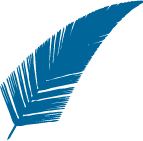
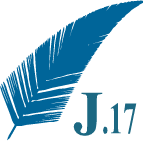
修改logo

Changed region(s): [[0.5035, 0.6525, 0.7273, 0.9645], [0.6993, 0.7092, 0.8671, 0.9645], [0.8671, 0.7092, 0.951, 0.9645]]

diff --git a/archives/2017/07/index.html b/archives/2017/07/index.html
@@ -52,7 +52,7 @@
 
 <div class="row page">
 	<div class="col-md-12">
-        <input type="text" id="local-search-input" name="q" results="0" placeholder="search notes..." class="st-search-input st-default-search-input form-control" style="margin-bottom:1em"/>
+        <input type="text" id="local-search-input" name="q" results="0" placeholder="搜尋檔案……" class="st-search-input st-default-search-input form-control" style="margin-bottom:1em"/>
         <div id="local-search-result"></div>
 		<div class="panel-group" id="notebook">
 			

diff --git a/archives/2017/index.html b/archives/2017/index.html
@@ -52,7 +52,7 @@
 
 <div class="row page">
 	<div class="col-md-12">
-        <input type="text" id="local-search-input" name="q" results="0" placeholder="search notes..." class="st-search-input st-default-search-input form-control" style="margin-bottom:1em"/>
+        <input type="text" id="local-search-input" name="q" results="0" placeholder="搜尋檔案……" class="st-search-input st-default-search-input form-control" style="margin-bottom:1em"/>
         <div id="local-search-result"></div>
 		<div class="panel-group" id="notebook">
 			

diff --git a/archives/index.html b/archives/index.html
@@ -52,7 +52,7 @@
 
 <div class="row page">
 	<div class="col-md-12">
-        <input type="text" id="local-search-input" name="q" results="0" placeholder="search notes..." class="st-search-input st-default-search-input form-control" style="margin-bottom:1em"/>
+        <input type="text" id="local-search-input" name="q" results="0" placeholder="搜尋檔案……" class="st-search-input st-default-search-input form-control" style="margin-bottom:1em"/>
         <div id="local-search-result"></div>
 		<div class="panel-group" id="notebook">
 			

diff --git a/index.html b/index.html
@@ -52,7 +52,7 @@
 
 <div class="row page">
 	<div class="col-md-12">
-        <input type="text" id="local-search-input" name="q" results="0" placeholder="search notes..." class="st-search-input st-default-search-input form-control" style="margin-bottom:1em"/>
+        <input type="text" id="local-search-input" name="q" results="0" placeholder="搜尋檔案……" class="st-search-input st-default-search-input form-control" style="margin-bottom:1em"/>
         <div id="local-search-result"></div>
 		<div class="panel-group" id="notebook">
 			
